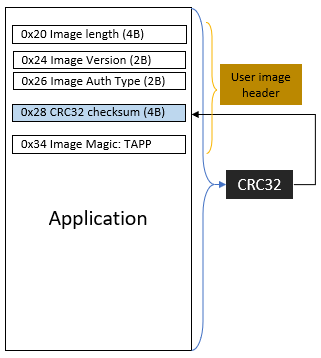
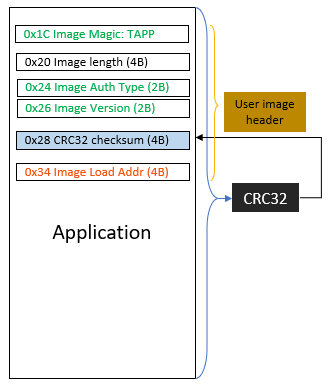
Adjust bl and app header definition #1

Changed region(s): [[0.0, 0.0, 0.9969, 0.9832], [0.1558, 0.5838, 0.4673, 0.6453]]

diff --git a/src/mem/memcore.py b/src/mem/memcore.py
@@ -231,6 +231,12 @@ class tinyOtaMem(runcore.tinyOtaRun):
                 pos = end_pos
         return crc.final()
 
+    def _getImageCrcType( self, loadAddr ):
+        if loadAddr == 0x0:
+            return memdef.kImageAuthType_XipCRC32
+        else:
+            return memdef.kImageAuthType_NonxipCRC32
+
     def makeOtaFile( self, fileType = 'stage1Bl' ):
         if fileType == uidef.kOtaFileType_S1BL:
             self.getOtaFileStartAddress(uidef.kOtaFileType_APP0)
@@ -242,28 +248,36 @@ class tinyOtaMem(runcore.tinyOtaRun):
                 return False
             shutil.copy(self.stage1BlFile, self.stage1BlFileTemp)
             appWordOffsetInBinary = (self.tgt.bootImageOffset - self.tgt.xspiNorCfgInfoOffset) >> 2
+            self.replace_word_in_binary(self.stage1BlFileTemp, appWordOffsetInBinary + memdef.kImageHeaderWordOffset_Magic, memdef.kImageHeaderMagicWord_Boot)
             self.replace_word_in_binary(self.stage1BlFileTemp, appWordOffsetInBinary + memdef.kImageHeaderWordOffset_App0LoadAddr, app0MemStart)
             self.replace_word_in_binary(self.stage1BlFileTemp, appWordOffsetInBinary + memdef.kImageHeaderWordOffset_App1LoadAddr, app1MemStart)
             self.replace_word_in_binary(self.stage1BlFileTemp, appWordOffsetInBinary + memdef.kImageHeaderWordOffset_AppLoadAddr, self.appLoadAddr)
-            self.replace_word_in_binary(self.stage1BlFileTemp, appWordOffsetInBinary + memdef.kImageHeaderWordOffset_Magic, memdef.kImageHeaderMagicWord_Boot)
         elif fileType == uidef.kOtaFileType_APP0:
             version = self.getAppVersion(0)
             if version == None:
                 return False
+            self.getAppLoadAddress()
+            if self.appLoadAddr == None:
+                return False
             shutil.copy(self.appSlot0File, self.appSlot0FileTemp)
-            self.replace_word_in_binary(self.appSlot0FileTemp, memdef.kImageHeaderWordOffset_Length, os.path.getsize(self.appSlot0FileTemp))
-            self.replace_word_in_binary(self.appSlot0FileTemp, memdef.kImageHeaderWordOffset_AuthType, (((memdef.kImageAuthType_CRC32) << 16) + version))
             self.replace_word_in_binary(self.appSlot0FileTemp, memdef.kImageHeaderWordOffset_Magic, memdef.kImageHeaderMagicWord_App)
+            self.replace_word_in_binary(self.appSlot0FileTemp, memdef.kImageHeaderWordOffset_Length, os.path.getsize(self.appSlot0FileTemp))
+            self.replace_word_in_binary(self.appSlot0FileTemp, memdef.kImageHeaderWordOffset_LoadAddr, self.appLoadAddr)
+            self.replace_word_in_binary(self.appSlot0FileTemp, memdef.kImageHeaderWordOffset_AuthType, ((version << 16) + self._getImageCrcType(self.appLoadAddr)))
             crc32 = self.calc_crc32_mpeg2_excluding_word(self.appSlot0FileTemp, memdef.kImageHeaderWordOffset_Crc32)
             self.replace_word_in_binary(self.appSlot0FileTemp, memdef.kImageHeaderWordOffset_Crc32, crc32)
         elif fileType == uidef.kOtaFileType_APP1:
             version = self.getAppVersion(1)
             if version == None:
                 return False
+            self.getAppLoadAddress()
+            if self.appLoadAddr == None:
+                return False
             shutil.copy(self.appSlot1File, self.appSlot1FileTemp)
-            self.replace_word_in_binary(self.appSlot1FileTemp, memdef.kImageHeaderWordOffset_Length, os.path.getsize(self.appSlot1FileTemp))
-            self.replace_word_in_binary(self.appSlot1FileTemp, memdef.kImageHeaderWordOffset_AuthType, (((memdef.kImageAuthType_CRC32) << 16) + version))
             self.replace_word_in_binary(self.appSlot1FileTemp, memdef.kImageHeaderWordOffset_Magic, memdef.kImageHeaderMagicWord_App)
+            self.replace_word_in_binary(self.appSlot1FileTemp, memdef.kImageHeaderWordOffset_Length, os.path.getsize(self.appSlot1FileTemp))
+            self.replace_word_in_binary(self.appSlot1FileTemp, memdef.kImageHeaderWordOffset_LoadAddr, self.appLoadAddr)
+            self.replace_word_in_binary(self.appSlot1FileTemp, memdef.kImageHeaderWordOffset_AuthType, ((version << 16) + self._getImageCrcType(self.appLoadAddr)))
             crc32 = self.calc_crc32_mpeg2_excluding_word(self.appSlot1FileTemp, memdef.kImageHeaderWordOffset_Crc32)
             self.replace_word_in_binary(self.appSlot1FileTemp, memdef.kImageHeaderWordOffset_Crc32, crc32)
         else:

diff --git a/src/mem/memdef.py b/src/mem/memdef.py
@@ -5,12 +5,14 @@ kAppImageFileExtensionList_S19 = ['.srec', '.s19', '.mot', '.mxt', '.m32', '.s28
 kAppImageFileExtensionList_Hex = ['.hex']
 kAppImageFileExtensionList_Bin = ['.bin']
 
-kImageAuthType_CRC32  = 0x0000
+kImageAuthType_NonxipCRC32  = 0x0002
+kImageAuthType_XipCRC32     = 0x0005
 
+kImageHeaderWordOffset_Magic    = 7
 kImageHeaderWordOffset_Length   = 8
 kImageHeaderWordOffset_AuthType = 9
 kImageHeaderWordOffset_Crc32    = 10
-kImageHeaderWordOffset_Magic    = 13
+kImageHeaderWordOffset_LoadAddr = 13
 kImageHeaderMagicWord_App    =0x50504154 #0x54 ('T'), 0x41 ('A'), 0x50 ('P'), 0x50 ('P')
 
 kImageHeaderWordOffset_App0LoadAddr = 8
